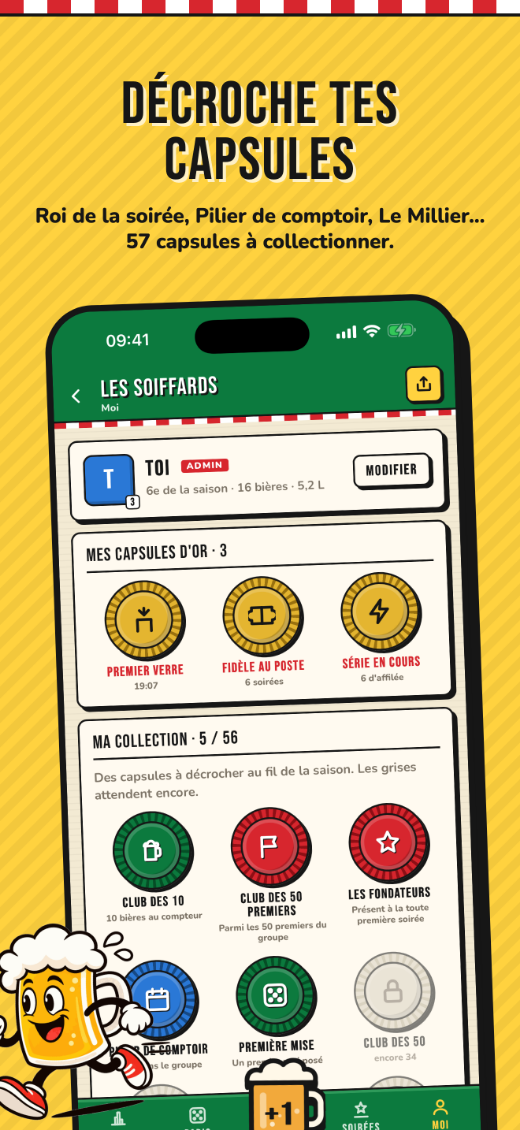
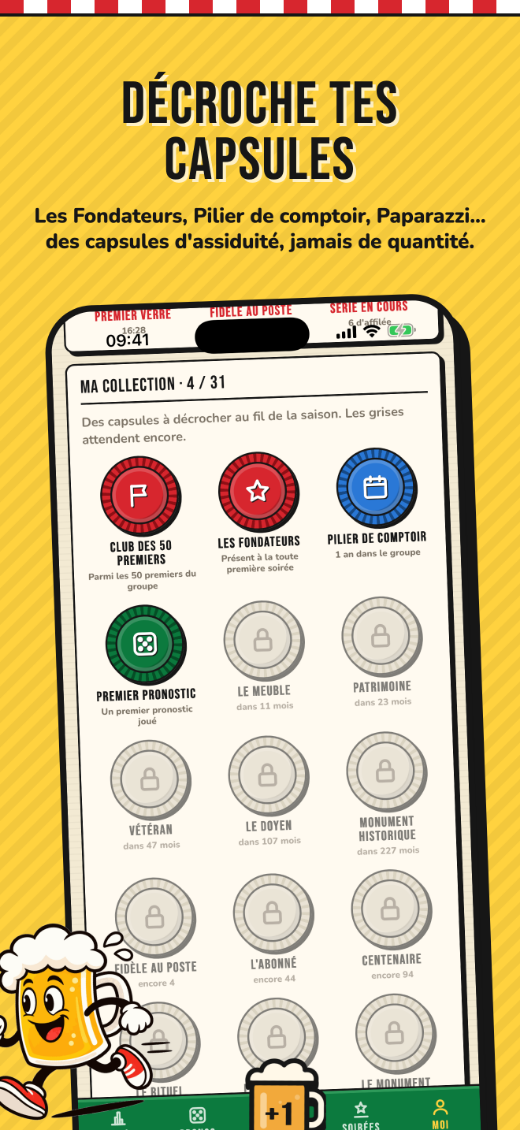
Update site

diff --git a/index.html b/index.html
@@ -3,10 +3,10 @@
 <head>
 <meta charset="utf-8">
 <meta name="viewport" content="width=device-width, initial-scale=1">
-<title>Chope — la course de bières entre potes</title>
-<meta name="description" content="Chope compte les bières de votre groupe d'amis et en fait une course de chevaux : classement en direct, paris en points, capsules à collectionner. Sans compte, sans pub.">
-<meta property="og:title" content="Chope — la course de bières entre potes">
-<meta property="og:description" content="Chope compte les bières de votre groupe d'amis et en fait une course de chevaux : classement en direct, paris en points, capsules à collectionner. Sans compte, sans pub.">
+<title>Chope — le carnet de bières entre potes</title>
+<meta name="description" content="Chope est le carnet de bières partagé de votre groupe d'amis : la soirée en photos, des pronostics pour des points, des capsules à collectionner. Sans compte, sans pub, avec modération.">
+<meta property="og:title" content="Chope — le carnet de bières entre potes">
+<meta property="og:description" content="Chope est le carnet de bières partagé de votre groupe d'amis : la soirée en photos, des pronostics pour des points, des capsules à collectionner. Sans compte, sans pub, avec modération.">
 <meta property="og:image" content="img/icon.png">
 <meta name="theme-color" content="#0c7a3e">
 <link rel="icon" href="img/icon.png">
@@ -56,36 +56,42 @@ footer{margin-top:40px;color:var(--muted);font-size:14px;border-top:2px dashed v
 </style>
 </head>
 <body>
-<header class="top"><div class="in"><a class="brand" href="index.html">Chope<small>Paris · Courses · Bières</small></a><nav><a href="index.html" class="on">Chope</a><a href="assistance.html">Assistance</a><a href="confidentialite.html">Confidentialité</a></nav></div></header>
+<header class="top"><div class="in"><a class="brand" href="index.html">Chope<small>Potes · Soirées · Bières</small></a><nav><a href="index.html" class="on">Chope</a><a href="assistance.html">Assistance</a><a href="confidentialite.html">Confidentialité</a></nav></div></header>
 <main>
 
 <div class="hero">
   <div>
     <h1>Chope</h1>
-    <span class="tag">Paris · Courses · Bières</span>
-    <p class="lead">La course de bières entre potes. Un groupe, un code, et le classement bouge en direct, comme au PMU.</p>
+    <span class="tag">Potes · Soirées · Bières</span>
+    <p class="lead">Le carnet de bières entre potes. Un groupe, un code, et la soirée se raconte en direct, comme au comptoir.</p>
     <p><span class="soon">Bientôt sur l'App Store</span></p>
   </div>
   <img src="img/mascot.png" alt="La mascotte de Chope, une chope de bière qui court">
 </div>
-<div class="shots"><img src="img/1-course.png" alt="Capture d'écran de Chope" loading="lazy"><img src="img/2-paris.png" alt="Capture d'écran de Chope" loading="lazy"><img src="img/3-capsules.png" alt="Capture d'écran de Chope" loading="lazy"><img src="img/4-objectif.png" alt="Capture d'écran de Chope" loading="lazy"><img src="img/5-soirees.png" alt="Capture d'écran de Chope" loading="lazy"><img src="img/6-accueil.png" alt="Capture d'écran de Chope" loading="lazy"></div>
+<div class="shots"><img src="img/1-soiree.png" alt="Capture d'écran de Chope" loading="lazy"><img src="img/2-pronostics.png" alt="Capture d'écran de Chope" loading="lazy"><img src="img/3-capsules.png" alt="Capture d'écran de Chope" loading="lazy"><img src="img/4-limite.png" alt="Capture d'écran de Chope" loading="lazy"><img src="img/5-soirees.png" alt="Capture d'écran de Chope" loading="lazy"><img src="img/6-accueil.png" alt="Capture d'écran de Chope" loading="lazy"></div>
 <div class="board"><h2>Comment ça marche</h2><p>Ouvre un groupe, tu reçois un code à six lettres. Tes potes le rejoignent avec le code ou le lien. Ensuite chacun déclare ses propres bières d'un +1, photo à l'appui si le groupe l'exige. La soirée démarre à la première bière et se termine toute seule le lendemain à 11 h.</p></div>
-<h2>La course</h2>
+<h2>La soirée</h2>
 <div class="card"><ul>
-<li>Une piste, une casaque numérotée par membre, qui avance à chaque bière</li>
-<li>Le classement de la soirée, celui de la saison, et l'écart avec le joueur juste devant</li>
-<li>Un objectif collectif, et une chope qui se remplit au fil de la saison</li>
+<li>Qui est là ce soir, où chacun en est, et le fil des bières et des photos</li>
+<li>Pas de classement, pas de course : Chope compte, il ne compare pas</li>
+<li>Un objectif de soirées ensemble, et une chope qui se remplit à chaque soirée terminée</li>
 </ul></div>
-<h2>Les paris du zinc</h2>
+<h2>Les pronostics du zinc</h2>
 <div class="card"><ul>
-<li>Qui boira le plus ce soir ? Qui prend la première ? Qui rentre en premier ?</li>
-<li>Des cotes calculées sur l'historique du groupe, figées à la mise</li>
-<li>Des gains en points seulement, jamais d'argent</li>
+<li>Qui prend la première ? Qui rentre en premier ? Qui va chanter ?</li>
+<li>Des points seulement, jamais d'argent : 10 pour un bon pronostic, 15 si vous êtes le seul à avoir vu juste</li>
+<li>Le palmarès des devins départage les copains</li>
 </ul></div>
 <h2>Les capsules</h2>
 <div class="card"><ul>
-<li>Des titres qui changent de main : Roi de la soirée, Marathonien, Le Sprinteur, Nostradamus</li>
-<li>Une collection à décrocher : Club des 50 premiers, Pilier de comptoir, Paparazzi, Le Millier</li>
+<li>Des titres qui changent de main : Premier verre, Fidèle au poste, Nostradamus</li>
+<li>Une collection à décrocher : Les Fondateurs, Pilier de comptoir, Paparazzi, Sam, Dans les clous</li>
+</ul></div>
+<h2>Avec modération</h2>
+<div class="card"><ul>
+<li>Votre limite par soirée : Chope vous prévient quand vous l'atteignez</li>
+<li>Votre semaine en unités d'alcool, avec les repères de Santé publique France</li>
+<li>Un rappel une heure après votre dernière bière, et le numéro d'Alcool Info Service (0 980 980 930)</li>
 </ul></div>
 <h2>Simple et discret</h2>
 <div class="card"><ul>
@@ -93,7 +99,7 @@ footer{margin-top:40px;color:var(--muted);font-size:14px;border-top:2px dashed v
 <li>Vos bières ne sont visibles que des membres de votre groupe</li>
 <li>Un bouton pour effacer toutes vos données, immédiatement</li>
 </ul></div>
-<div class="ticket"><b>Règlement intérieur · Art. 6</b>Entre adultes, avec modération. Chope compte, il ne pousse pas à boire. L'admin du groupe peut exclure un membre ou retirer une photo qui dérange.</div>
+<div class="ticket"><b>Règlement intérieur · Art. 6</b>Entre adultes, avec modération. Chope compte, il ne pousse pas à boire. L'admin du groupe peut exclure un membre ou retirer une photo qui dérange. Besoin d'en parler ? Alcool Info Service, 0 980 980 930 (appel anonyme et non surtaxé), <a href="https://www.alcool-info-service.fr">alcool-info-service.fr</a>.</div>
 
 <footer>© 2026 SAS NOMAD · Chope · Conçu et développé par Noa Madar · <a href="mailto:hello@amui.fr">hello@amui.fr</a><br>Chope est réservée aux adultes. À consommer avec modération.</footer>
 </main>

diff --git a/confidentialite.html b/confidentialite.html
@@ -56,12 +56,12 @@ footer{margin-top:40px;color:var(--muted);font-size:14px;border-top:2px dashed v
 </style>
 </head>
 <body>
-<header class="top"><div class="in"><a class="brand" href="index.html">Chope<small>Paris · Courses · Bières</small></a><nav><a href="index.html">Chope</a><a href="assistance.html">Assistance</a><a href="confidentialite.html" class="on">Confidentialité</a></nav></div></header>
+<header class="top"><div class="in"><a class="brand" href="index.html">Chope<small>Potes · Soirées · Bières</small></a><nav><a href="index.html">Chope</a><a href="assistance.html">Assistance</a><a href="confidentialite.html" class="on">Confidentialité</a></nav></div></header>
 <main>
 
 <h1 class="small">Confidentialité</h1>
 <p class="muted">Dernière mise à jour : 20 novembre 2026</p>
-<div class="card"><p><strong>En deux mots : pas de compte, pas de publicité, pas de traceur, aucune donnée vendue.</strong> Ce que vous déclarez n'est visible que des membres de votre groupe, et vous pouvez tout effacer d'un bouton. Chope est réservée aux adultes. Elle compte, elle ne pousse pas à boire : à consommer avec modération.</p></div>
+<div class="card"><p><strong>En deux mots : pas de compte, pas de publicité, pas de traceur, aucune donnée vendue.</strong> Ce que vous déclarez n'est visible que des membres de votre groupe, et vous pouvez tout effacer d'un bouton. Chope est réservée aux adultes. Elle compte, elle ne pousse pas à boire : pas de classement, chacun se fixe sa limite par soirée et voit sa semaine en unités d'alcool. À consommer avec modération. Besoin d'en parler ? Alcool Info Service, 0 980 980 930 (appel anonyme et non surtaxé), <a href="https://www.alcool-info-service.fr">alcool-info-service.fr</a>.</p></div>
 <h2>Qui édite l'appli</h2>
 <p>SAS NOMAD, France. Conçu et développé par Noa Madar. Contact : <a href="mailto:hello@amui.fr">hello@amui.fr</a>.</p>
 <h2>Ce que l'appli enregistre</h2>
@@ -69,20 +69,20 @@ footer{margin-top:40px;color:var(--muted);font-size:14px;border-top:2px dashed v
 <li><strong>Un jeton d'appareil</strong> : un identifiant aléatoire créé sur votre téléphone à la première ouverture. Il remplace le compte. Il n'est lié ni à votre nom, ni à votre numéro, ni à votre adresse e-mail.</li>
 <li><strong>Votre pseudo</strong>, la couleur de votre casaque et, si vous en mettez une, votre <strong>photo de profil</strong>.</li>
 <li><strong>Vos bières</strong> : l'heure, la taille et, selon le réglage du groupe, une <strong>photo de preuve</strong>.</li>
-<li><strong>Vos paris</strong> : vos mises et les paris que vous lancez (question et enjeu que vous écrivez vous-même).</li>
+<li><strong>Vos pronostics</strong> : ceux que vous jouez et ceux que vous lancez (la question que vous écrivez vous-même). Ils ne rapportent que des points, jamais d'argent.</li>
 <li><strong>Votre report de départ</strong>, si votre groupe comptait déjà ses bières avant l'appli.</li>
 </ul></div>
 <p>Rien d'autre : pas de position, pas de contacts, pas de statistiques d'usage envoyées à un tiers.</p>
 <h2>Qui voit quoi</h2>
-<p>Tout ce que vous déclarez est visible des <strong>membres de votre groupe</strong>, c'est le principe du jeu : classement, fil d'activité, photos de preuve, paris. Une personne qui a le code du groupe peut le rejoindre et voir ces informations. Ne partagez le code qu'avec vos amis. Personne en dehors du groupe n'y a accès. L'éditeur n'exploite pas vos données et ne les transmet à personne.</p>
+<p>Tout ce que vous déclarez est visible des <strong>membres de votre groupe</strong>, c'est le principe du carnet partagé : compteurs, fil d'activité, photos de preuve, pronostics. Une personne qui a le code du groupe peut le rejoindre et voir ces informations. Ne partagez le code qu'avec vos amis. Personne en dehors du groupe n'y a accès. L'éditeur n'exploite pas vos données et ne les transmet à personne.</p>
 <h2>Où c'est stocké</h2>
 <p>Les données sont hébergées chez <strong>Supabase</strong> (base de données et photos), sur des serveurs situés dans l'<strong>Union européenne</strong>. Les échanges entre l'appli et le serveur sont chiffrés. Les photos sont réduites avant l'envoi.</p>
 <h2>Combien de temps</h2>
 <p>Tant que vous êtes membre du groupe. Quand vous quittez un groupe, vos bières et vos photos y disparaissent. Quand le dernier membre quitte un groupe, le groupe est supprimé.</p>
 <h2>Modération</h2>
-<p>L'administrateur du groupe (la personne qui l'a créé) peut <strong>exclure un membre</strong>, <strong>retirer une photo</strong> ou <strong>annuler un pari</strong> qui dérange. Chacun peut retirer les photos de ses propres bières et effacer ses propres bières.</p>
+<p>L'administrateur du groupe (la personne qui l'a créé) peut <strong>exclure un membre</strong>, <strong>retirer une photo</strong> ou <strong>annuler un pronostic</strong> qui dérange. Chacun peut retirer les photos de ses propres bières et effacer ses propres bières.</p>
 <h2>Vos droits</h2>
-<p>Depuis l'écran d'accueil de l'appli, <strong>« Effacer mes données »</strong> supprime immédiatement et définitivement votre jeton, vos bières, vos photos, vos paris et votre place dans chaque groupe. Aucune demande à envoyer, aucun délai. Pour toute autre question (accès, rectification, réclamation), écrivez à <a href="mailto:hello@amui.fr">hello@amui.fr</a>. Vous pouvez aussi saisir la CNIL.</p>
+<p>Depuis l'écran d'accueil de l'appli, <strong>« Effacer mes données »</strong> supprime immédiatement et définitivement votre jeton, vos bières, vos photos, vos pronostics et votre place dans chaque groupe. Aucune demande à envoyer, aucun délai. Pour toute autre question (accès, rectification, réclamation), écrivez à <a href="mailto:hello@amui.fr">hello@amui.fr</a>. Vous pouvez aussi saisir la CNIL.</p>
 <h2>Âge</h2>
 <p>Chope est réservée aux personnes majeures et classée 17+ sur l'App Store.</p>
 <h2>Modifications</h2>

diff --git a/assistance.html b/assistance.html
@@ -4,9 +4,9 @@
 <meta charset="utf-8">
 <meta name="viewport" content="width=device-width, initial-scale=1">
 <title>Chope — Assistance</title>
-<meta name="description" content="Aide et questions fréquentes sur Chope, la course de bières entre potes.">
+<meta name="description" content="Aide et questions fréquentes sur Chope, le carnet de bières entre potes.">
 <meta property="og:title" content="Chope — Assistance">
-<meta property="og:description" content="Aide et questions fréquentes sur Chope, la course de bières entre potes.">
+<meta property="og:description" content="Aide et questions fréquentes sur Chope, le carnet de bières entre potes.">
 <meta property="og:image" content="img/icon.png">
 <meta name="theme-color" content="#0c7a3e">
 <link rel="icon" href="img/icon.png">
@@ -56,7 +56,7 @@ footer{margin-top:40px;color:var(--muted);font-size:14px;border-top:2px dashed v
 </style>
 </head>
 <body>
-<header class="top"><div class="in"><a class="brand" href="index.html">Chope<small>Paris · Courses · Bières</small></a><nav><a href="index.html">Chope</a><a href="assistance.html" class="on">Assistance</a><a href="confidentialite.html">Confidentialité</a></nav></div></header>
+<header class="top"><div class="in"><a class="brand" href="index.html">Chope<small>Potes · Soirées · Bières</small></a><nav><a href="index.html">Chope</a><a href="assistance.html" class="on">Assistance</a><a href="confidentialite.html">Confidentialité</a></nav></div></header>
 <main>
 
 <h1 class="small">Assistance</h1>
@@ -66,10 +66,11 @@ footer{margin-top:40px;color:var(--muted);font-size:14px;border-top:2px dashed v
 <div class="card"><p><strong>Je me suis trompé, comment annuler une bière ?</strong></p><p>Juste après le +1, le message en bas de l'écran propose « Annuler ». Plus tard, ouvrez Moi › Mes bières : chacune se modifie ou se supprime.</p></div>
 <div class="card"><p><strong>Quand la soirée se termine-t-elle ?</strong></p><p>Toute seule, à 11 h du matin le lendemain du départ. Il n'y a rien à lancer ni à arrêter : la première bière ouvre la soirée.</p></div>
 <div class="card"><p><strong>Qui peut changer les réglages du groupe ?</strong></p><p>L'admin, c'est-à-dire la personne qui a créé le groupe : preuve photo, dose, objectif, nom du groupe, reports de départ, exclusion d'un membre.</p></div>
-<div class="card"><p><strong>Les paris, c'est de l'argent ?</strong></p><p>Non. Les gains sont des points, calculés à partir d'une cote. L'enjeu écrit sur un pari (« le perdant paie une tournée ») n'engage que vous entre amis.</p></div>
-<div class="card"><p><strong>Comment effacer mes données ?</strong></p><p>Sur l'écran d'accueil, « Effacer mes données » supprime tout immédiatement : vos bières, vos photos, vos paris et votre place dans chaque groupe. Voir la <a href="confidentialite.html">politique de confidentialité</a>.</p></div>
-<div class="card"><p><strong>Une photo ou un membre pose problème.</strong></p><p>L'admin du groupe peut retirer une photo, annuler un pari ou exclure un membre depuis Moi. Pour un signalement plus grave, écrivez-nous.</p></div>
-<div class="card"><p><strong>Faut-il une connexion internet ?</strong></p><p>Oui, pour partager le classement avec le groupe en direct. L'app s'ouvre sans réseau mais les bières ne partent qu'une fois connecté.</p></div>
+<div class="card"><p><strong>Les pronostics, c'est de l'argent ?</strong></p><p>Non. Un bon pronostic vaut 10 points, 15 si vous êtes le seul à avoir vu juste. Pas de cote, pas de mise, pas d'enjeu.</p></div>
+<div class="card"><p><strong>Y a-t-il un classement ?</strong></p><p>Non. Chaque membre voit son compteur et celui des autres, mais personne n'est classé et rien ne récompense la quantité. Vous pouvez vous fixer une limite par soirée dans Moi : Chope vous prévient quand vous l'atteignez.</p></div>
+<div class="card"><p><strong>Comment effacer mes données ?</strong></p><p>Sur l'écran d'accueil, « Effacer mes données » supprime tout immédiatement : vos bières, vos photos, vos pronostics et votre place dans chaque groupe. Voir la <a href="confidentialite.html">politique de confidentialité</a>.</p></div>
+<div class="card"><p><strong>Une photo ou un membre pose problème.</strong></p><p>L'admin du groupe peut retirer une photo, annuler un pronostic ou exclure un membre depuis Moi. Pour un signalement plus grave, écrivez-nous.</p></div>
+<div class="card"><p><strong>Faut-il une connexion internet ?</strong></p><p>Oui, pour partager la soirée avec le groupe en direct. L'app s'ouvre sans réseau mais les bières ne partent qu'une fois connecté.</p></div>
 
 <footer>© 2026 SAS NOMAD · Chope · Conçu et développé par Noa Madar · <a href="mailto:hello@amui.fr">hello@amui.fr</a><br>Chope est réservée aux adultes. À consommer avec modération.</footer>
 </main>
